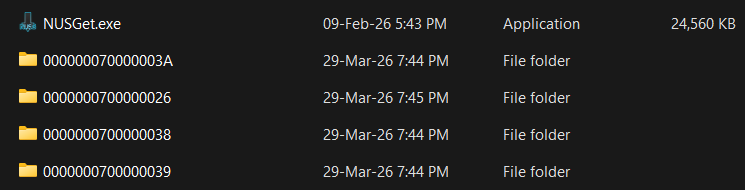
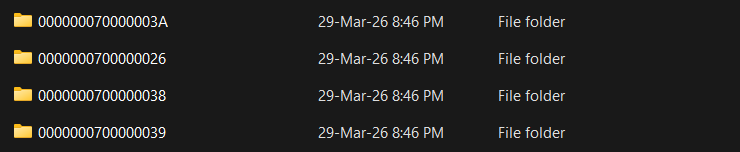
Adapt changes from #192

diff --git a/docs/cios.md b/docs/cios.md
@@ -232,11 +232,14 @@ If you are able to connect your vWii to the internet, you may skip to [Section I
 1. Power off your console, and insert your SD card or USB drive into your computer.
 1. On your computer, download [NUSGet](https://github.com/NinjaCheetah/NUSGet/releases/latest/), choosing the archive corresponding to your operating system. For Windows users, you should choose the `NUSGet-Windows-x86_64-bin.zip` file.
 1. Unzip the archive and run the NUSGet executable.
-1. Select the `vWii` platform, navigate to `IOS` > `IOS 38` > `World` and select `v4380`. Uncheck `Keep encrypted contents`. Check `Re-encrypt title using the Wii Common Key`. Check `Use a custom download directory` and select the folder that your NUSGet executable is in, then click `Start Download`.
+1. Select the `vWii` platform, navigate to `IOS` > `IOS 38` > `World` and select `v4380`. Uncheck `Keep encrypted contents`. Check `Re-encrypt title using the Wii Common Key`, then click `Start Download`.
 
     ![](/images/desktop-apps/nusget/nusget-4380.png)
 1. Repeat the above step for `IOS 56 (v5918)`, `IOS 57 (v6175)` and `IOS 58 (v6432)`.
-1. When you have finished downloading the above IOS, navigate to the folder where your NUSGet executable is stored. This should now contain four different folders with the title IDs for the above IOS.
+1. When you have finished downloading the above IOS, click the folder next to `Start Download`. This will open your file manager to NUSGet's download folder.
+    ![](/images/desktop-apps/nusget/nusget-open-downloads.png)
+
+1. This folder should contain four different folders with the title IDs of the above IOS, as shown here.
 
     ![](/images/desktop-apps/nusget/nusget-folder-vios.png)
 1. Enter the four directories, locating a `IOS-XX-vXXXX-vWii.wad` file in each.
